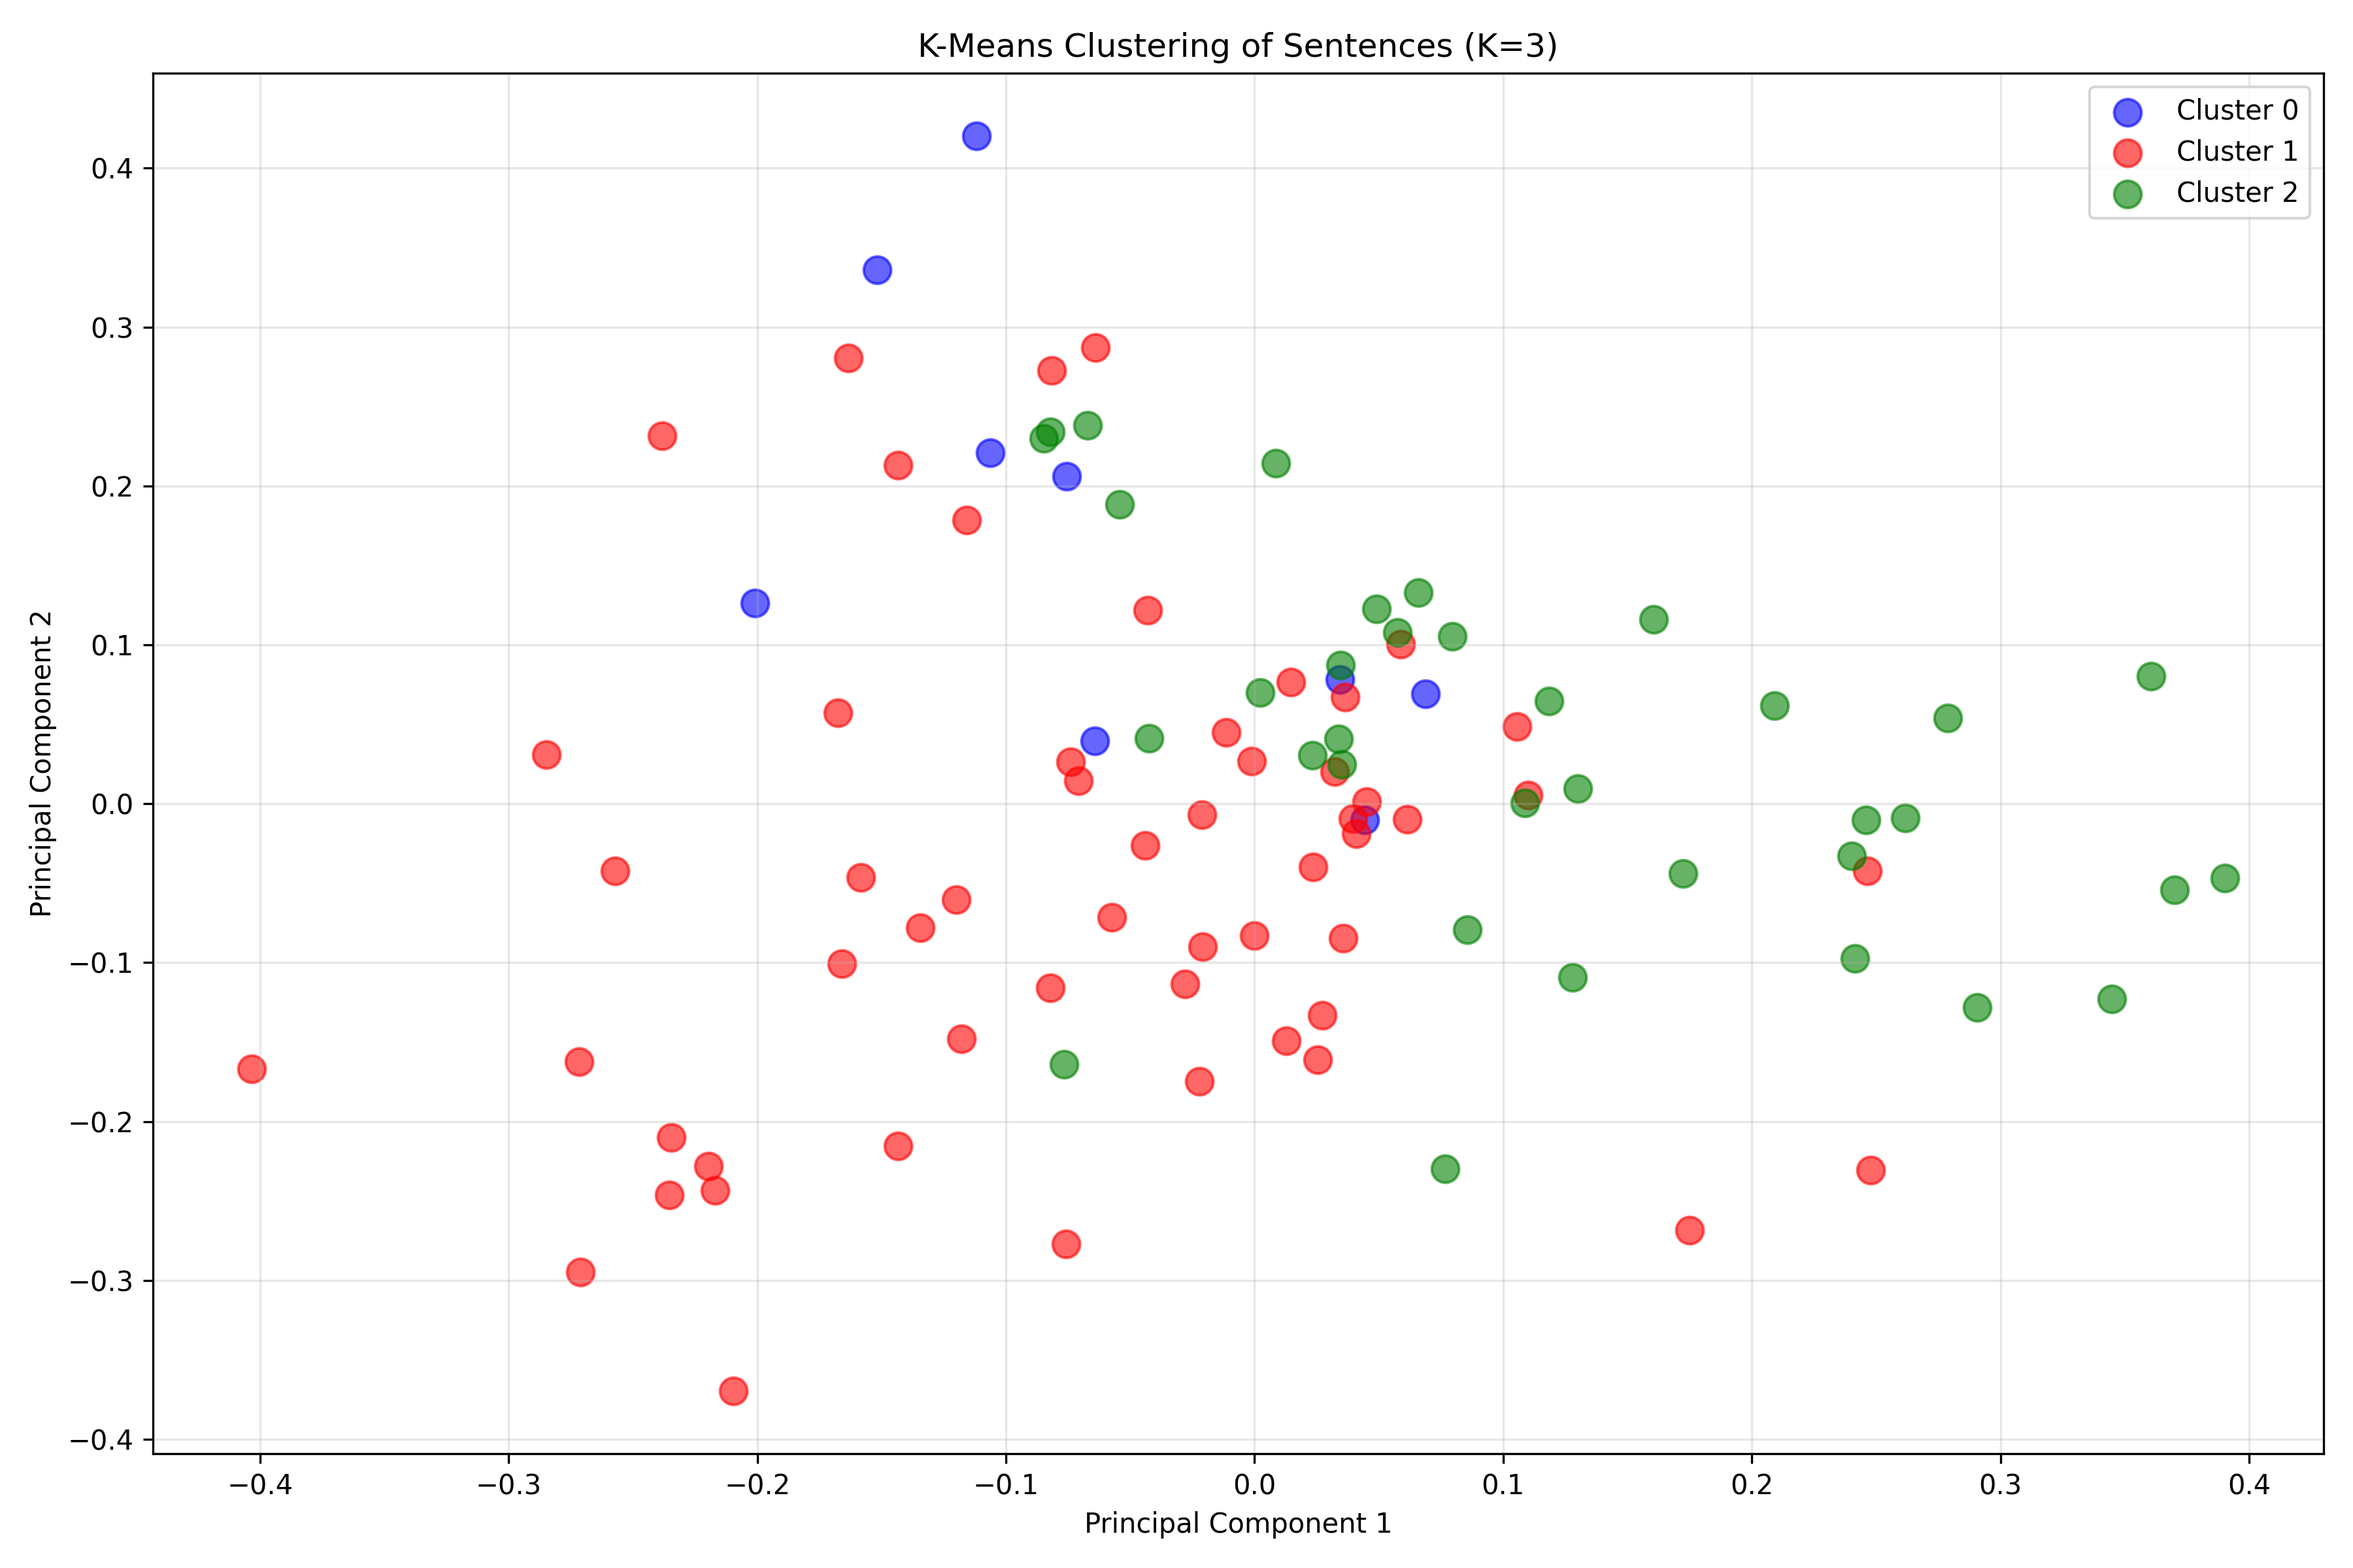
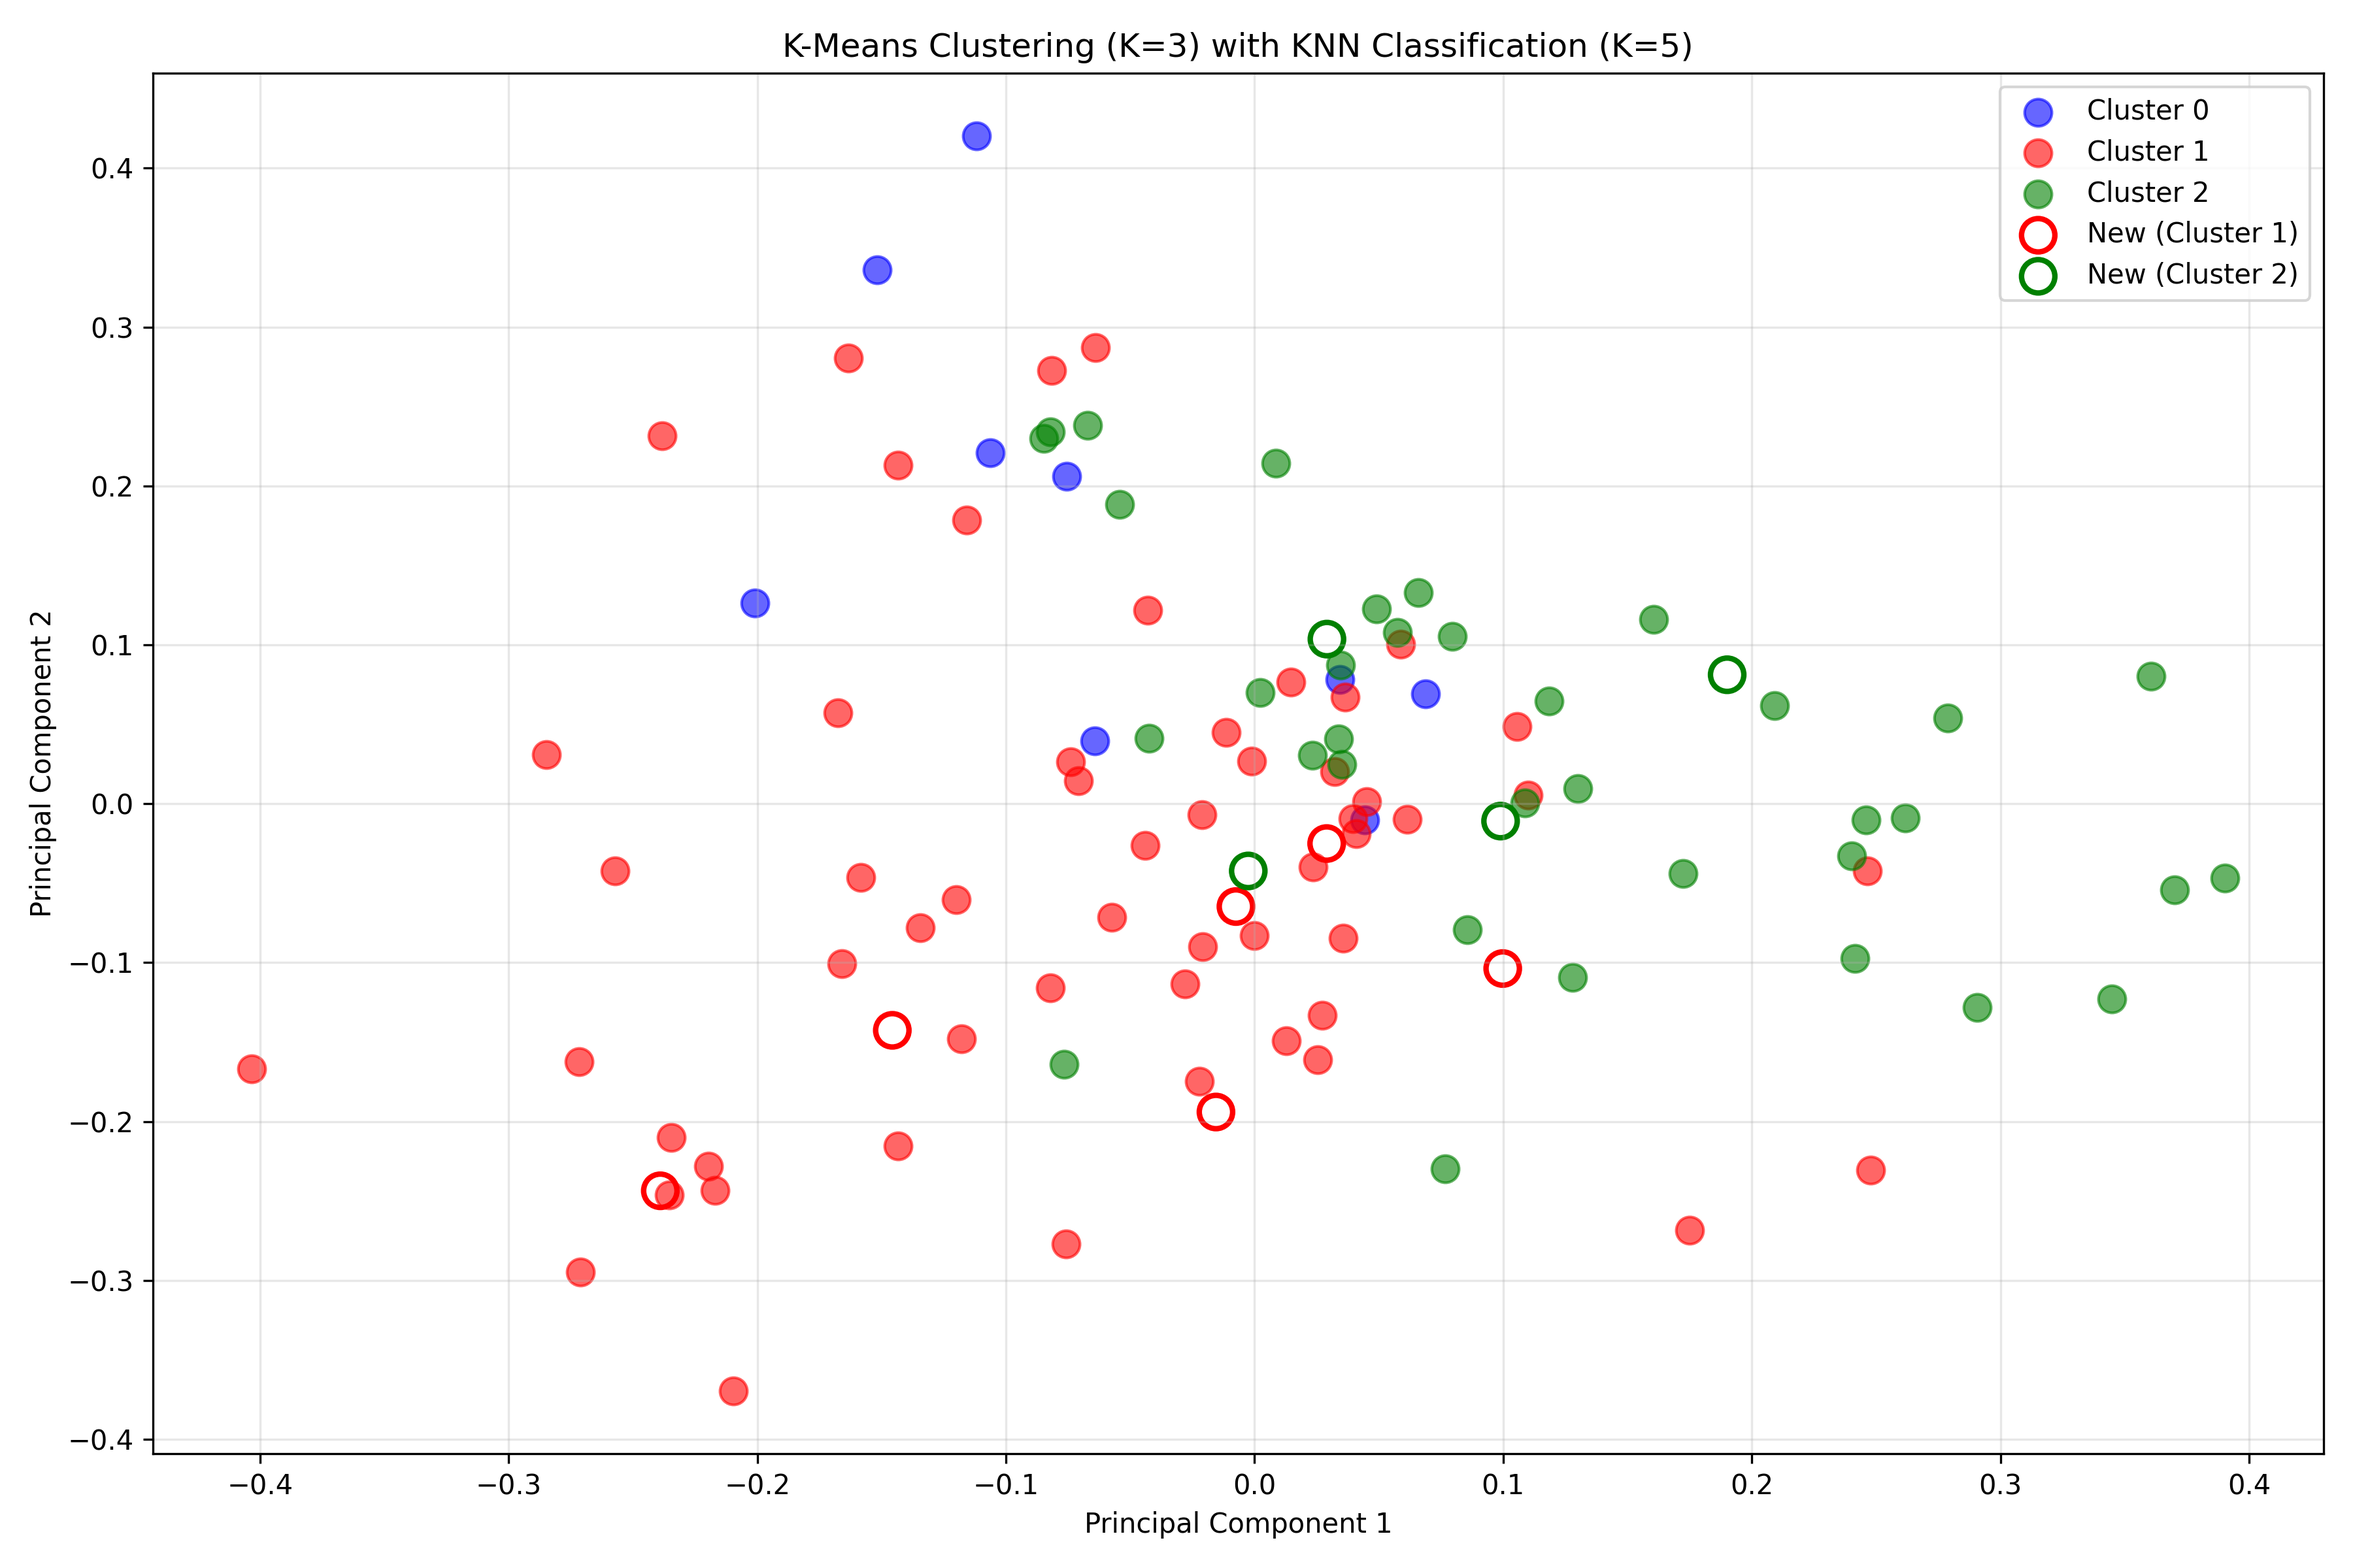
w/KNN

diff --git a/kmeans_clustering.py b/kmeans_clustering.py
@@ -1,6 +1,7 @@
 import json
 from sklearn.feature_extraction.text import TfidfVectorizer
 from sklearn.cluster import KMeans
+from sklearn.neighbors import KNeighborsClassifier
 from sklearn.decomposition import PCA
 import matplotlib.pyplot as plt
 
@@ -12,12 +13,14 @@ def load_sentences(filepath):
 
 def vectorize_sentences(sentences):
     vectorizer = TfidfVectorizer()
-    return vectorizer.fit_transform(sentences)
+    vectors = vectorizer.fit_transform(sentences)
+    return vectorizer, vectors
 
 
 def cluster_sentences(sentence_vectors, num_clusters):
     kmeans = KMeans(n_clusters=num_clusters, random_state=42)
-    return kmeans.fit_predict(sentence_vectors)
+    labels = kmeans.fit_predict(sentence_vectors)
+    return kmeans, labels
 
 
 def group_by_cluster(sentences, labels, num_clusters):
@@ -36,12 +39,31 @@ def display_clusters(clusters):
             print(f"  - {sentence}")
 
 
+def classify_new_sentences(sentence_vectors, labels, vectorizer, new_filepath, k=5):
+    knn = KNeighborsClassifier(n_neighbors=k)
+    knn.fit(sentence_vectors, labels)
+
+    new_sentences = load_sentences(new_filepath)
+    new_vectors = vectorizer.transform(new_sentences)
+    new_labels = knn.predict(new_vectors)
+    return new_sentences, new_vectors, new_labels
+
+
+def print_new_sentence_assignments(new_sentences, labels):
+    print(f"\n{'='*80}")
+    print(f"NEW SENTENCE CLUSTER ASSIGNMENTS ({len(new_sentences)} sentences)")
+    print('='*80)
+    for sentence, label in zip(new_sentences, labels):
+        print(f"Cluster {label}: {sentence}")
+
+
 def reduce_dimensions(sentence_vectors):
     pca = PCA(n_components=2, random_state=42)
-    return pca.fit_transform(sentence_vectors.toarray())
+    coordinates = pca.fit_transform(sentence_vectors.toarray())
+    return pca, coordinates
 
 
-def plot_clusters(coordinates, labels, num_clusters):
+def plot_clusters(coordinates, labels, num_clusters, new_coordinates=None, new_labels=None):
     colors = ['blue', 'red', 'green']
 
     plt.figure(figsize=(12, 8))
@@ -57,9 +79,23 @@ def plot_clusters(coordinates, labels, num_clusters):
             s=100
         )
 
+    if new_coordinates is not None and new_labels is not None:
+        for cluster_id in range(num_clusters):
+            new_cluster_points = new_coordinates[new_labels == cluster_id]
+            if len(new_cluster_points) > 0:
+                plt.scatter(
+                    new_cluster_points[:, 0],
+                    new_cluster_points[:, 1],
+                    facecolors='none',
+                    edgecolors=colors[cluster_id],
+                    label=f'New (Cluster {cluster_id})',
+                    linewidths=2,
+                    s=150
+                )
+
     plt.xlabel('Principal Component 1')
     plt.ylabel('Principal Component 2')
-    plt.title('K-Means Clustering of Sentences (K=3)')
+    plt.title('K-Means Clustering (K=3) with KNN Classification (K=5)')
     plt.legend()
     plt.grid(True, alpha=0.3)
     plt.tight_layout()
@@ -70,14 +106,24 @@ def plot_clusters(coordinates, labels, num_clusters):
 
 
 def main():
+    num_clusters = 3
+
     sentences = load_sentences('sentences.json')
-    sentence_vectors = vectorize_sentences(sentences)
-    labels = cluster_sentences(sentence_vectors, num_clusters=3)
-    clusters = group_by_cluster(sentences, labels, num_clusters=3)
+    vectorizer, sentence_vectors = vectorize_sentences(sentences)
+    kmeans, labels = cluster_sentences(sentence_vectors, num_clusters)
+    clusters = group_by_cluster(sentences, labels, num_clusters)
     display_clusters(clusters)
 
-    coordinates = reduce_dimensions(sentence_vectors)
-    plot_clusters(coordinates, labels, num_clusters=3)
+    pca, coordinates = reduce_dimensions(sentence_vectors)
+
+    new_sentences, new_vectors, new_labels = classify_new_sentences(
+        sentence_vectors, labels, vectorizer, 'new_sentences.json', k=5
+    )
+    print_new_sentence_assignments(new_sentences, new_labels)
+
+    new_coordinates = pca.transform(new_vectors.toarray())
+
+    plot_clusters(coordinates, labels, num_clusters, new_coordinates, new_labels)
 
 
 if __name__ == '__main__':

diff --git a/docs/PROMPTS.md b/docs/PROMPTS.md
@@ -1,3 +1,6 @@
 - Generate a Python program that reads the sentences in @sentences.json and classifies them by running K-Means with K=3.
 - generate a Taskfile.yml with two tasks: one for downloading and installing all the dependencies, and a second one for running the program.
 - Plot the results using a scatter chart.
+- In addition to plotting the results, generate a new JSON file named `sentences_clustered.json` that contains 3 lists - one for each cluster with all the sentences belonging to that cluster in it.
+- Run KNN with K=5 on the new sentences in @new_sentences.json. Plot the results in the same chart using the colors of each group, but surround them with a circle to denote that they're new. Also print to console the cluster
+ to which they were attached. 
